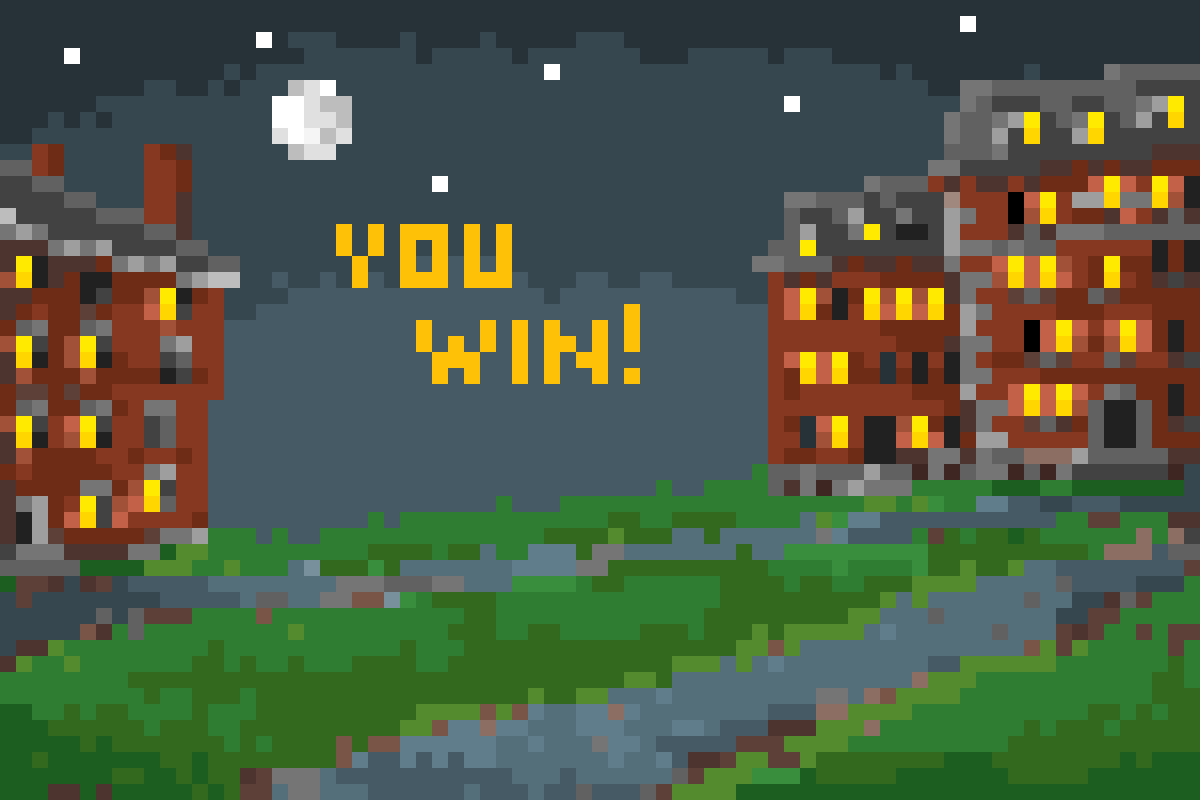
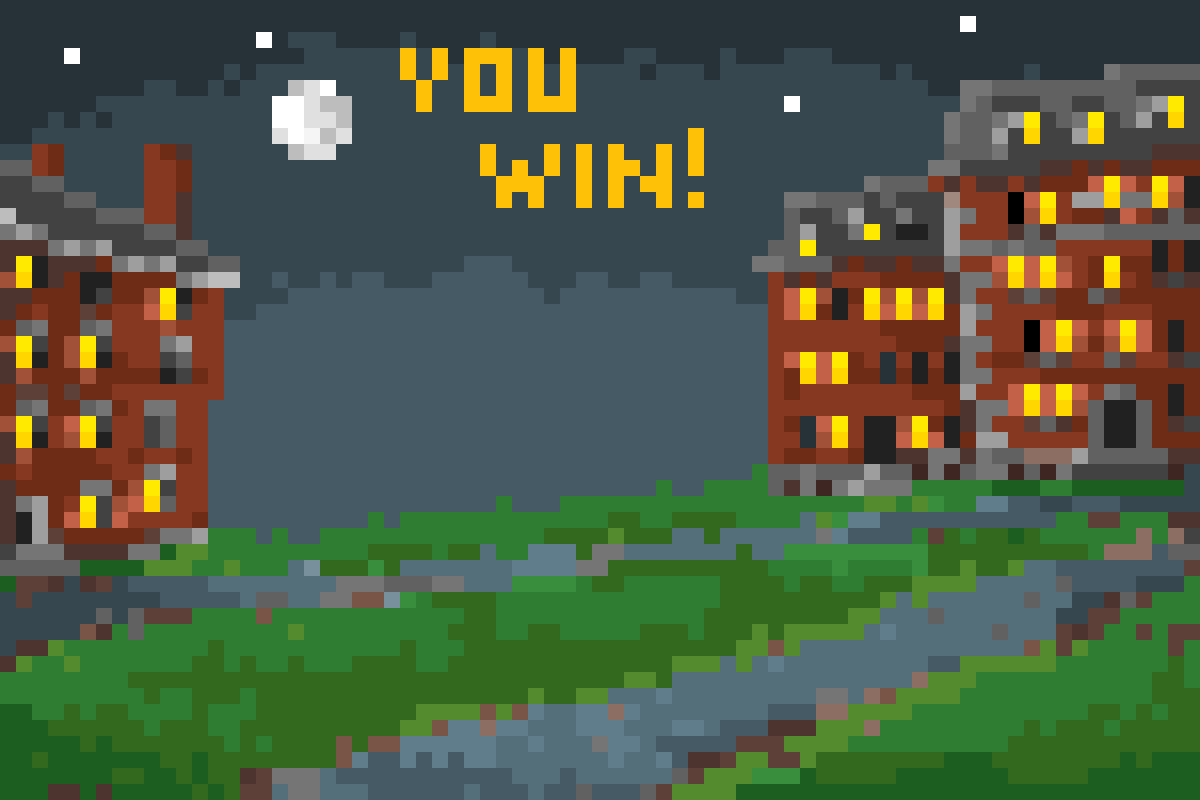
winscreen

Changed region(s): [[0.2775, 0.0625, 0.5858, 0.5], [0.3392, 0.2188, 0.37, 0.25]]

diff --git a/game.py b/game.py
@@ -195,10 +195,9 @@ class Player(pygame.sprite.Sprite):
         self.surf = player_frames[pframe].convert()
         self.surf.set_colorkey(WHITE, RLEACCEL)
         self.rect = self.surf.get_rect(center=(600, 400))
-        #self.tracker = 0
 
     def show_point_deduction(self, points, state):
-        ''' Visuals for point deduction '''
+        """ Visuals for point deduction """
         self.bye_points = create_surface_with_text(points, 13, RED, WHITE)
         self.bye_points.set_colorkey(WHITE, RLEACCEL)
         self.bye_rect = self.bye_points.get_rect(center=(self.rect.centerx, self.rect.centery - 50))
@@ -401,7 +400,7 @@ def main():
         if game_state == GameState.NEWGAME:
             game_state = play_level(screen)
         
-        if game_state == GameState.NEWGAME:
+        if game_state == GameState.WIN:
             game_state = win_screen(screen)
 
         if game_state == GameState.GAMEOVER:
@@ -711,9 +710,7 @@ def play_level(screen):
     # call the first find
     instructions = []
     instructions.append('Please find ' + targets[0][0] + '.')
-    print(instructions)
     goaltext = instructions[0]
-    print(instructions[0])
     goaldisplay = create_surface_with_text(goaltext, 18, WHITE, CRIMSON)
     goal_rect = goaldisplay.get_rect(center=(600, 400))
     goal_border = create_border_surface(goal_rect, 6)
@@ -789,7 +786,6 @@ def play_level(screen):
         # check for matches 
         for info in infoqueue:
             if info[3] == targets[0][1]:
-                print(targets)
                 del targets[0]
 
                 # check for empty list
